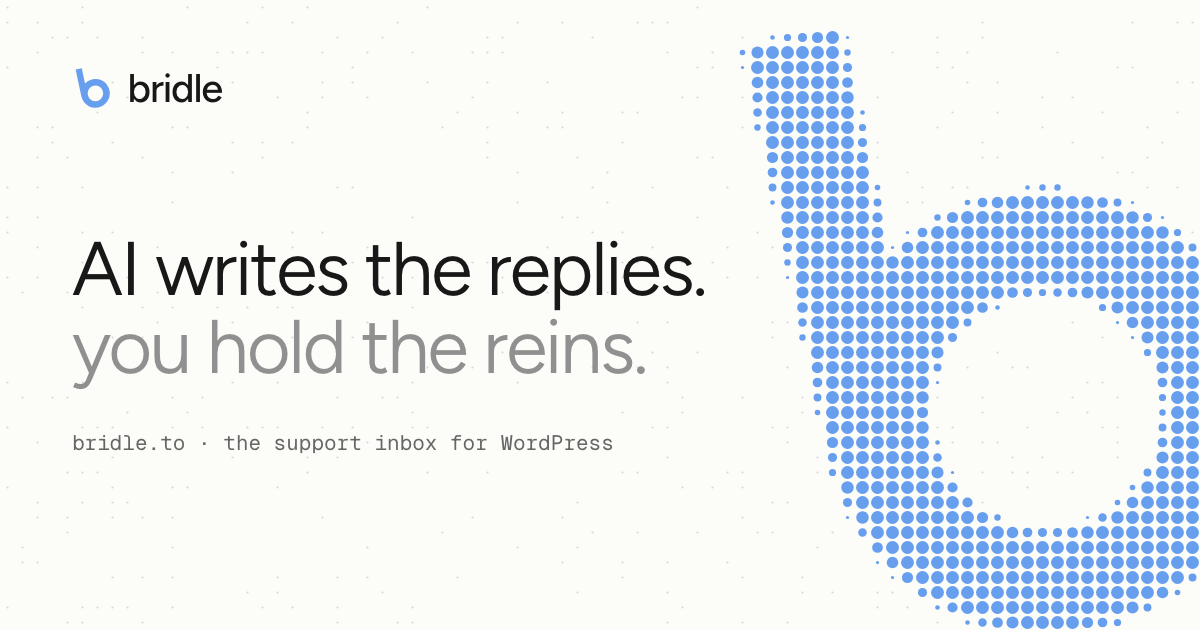
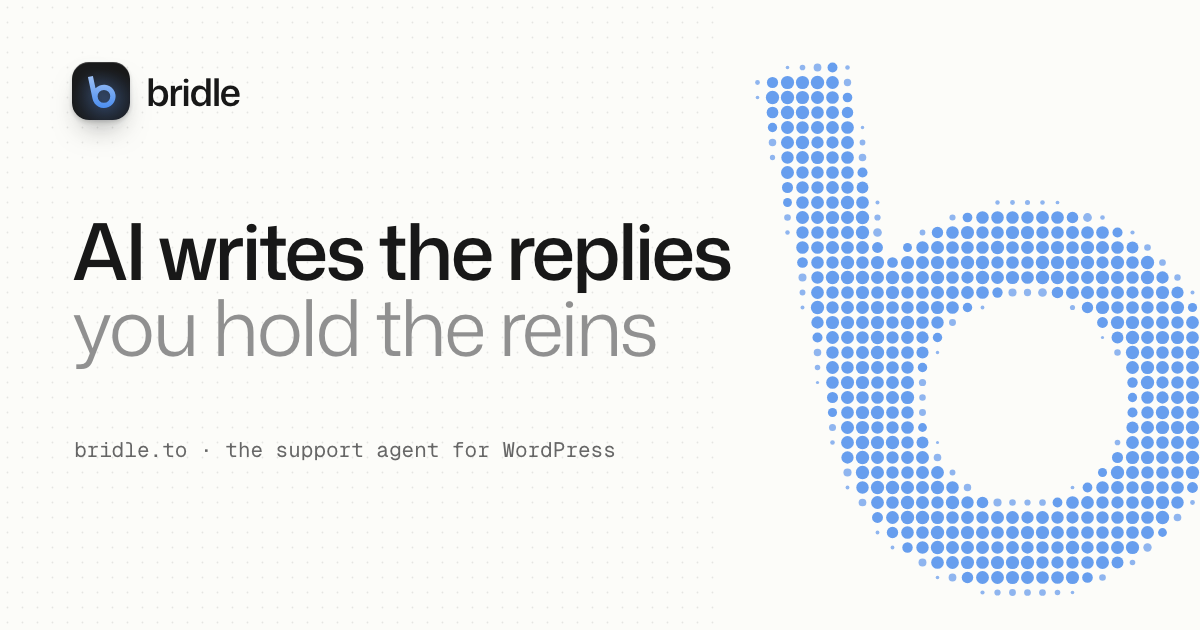
bridle.to: share image in Mona Sans, robots and sitemap, third-party notices
- og.png redrawn: Mona Sans headline without full stops, the mark on its
  ink tile, "the support agent for WordPress", and a halftone b sized so
  the whole ring reads.
- robots.txt and sitemap.xml so search engines index the page (not the
  thanks page).
- NOTICE.md and the two OFL texts, so the repo can be public: fonts are
  OFL, the agent logos MIT (LobeHub Icons), the interface icons ISC
  (Lucide); the page's own work stays all rights reserved.

diff --git a/NOTICE.md b/NOTICE.md
@@ -1,0 +1,31 @@
+# Third-party notices
+
+The page's own code, copy, mark and photo are © 2026 PlugPress, all rights reserved. These parts come from others under their own licences:
+
+| What | Where | Licence |
+|---|---|---|
+| Mona Sans, © 2022 The Mona Sans Project Authors | `fonts/mona-sans-latin.woff2` | SIL Open Font License 1.1, see `fonts/OFL-mona-sans.txt` |
+| Geist Mono, © 2024 The Geist Project Authors | `fonts/geist-mono-latin.woff2` | SIL Open Font License 1.1, see `fonts/OFL-geist-mono.txt` |
+| Agent logo paths (OpenAI, Claude, Codex, Cursor, MCP) from LobeHub Icons, © LobeHub | inline in `index.html` | MIT, below |
+| Interface icons from Lucide, © Lucide Contributors | inline in `index.html` | ISC |
+| Figtree and Gabarito (earlier commits only) | `fonts/` in git history | SIL Open Font License 1.1 |
+
+The ChatGPT, Codex, Claude, Cursor and Model Context Protocol names and logos are trademarks of their owners. They appear only to say Bridle works with them.
+
+## MIT License (LobeHub Icons)
+
+Copyright (c) LobeHub
+
+Permission is hereby granted, free of charge, to any person obtaining a copy of this software and associated documentation files (the "Software"), to deal in the Software without restriction, including without limitation the rights to use, copy, modify, merge, publish, distribute, sublicense, and/or sell copies of the Software, and to permit persons to whom the Software is furnished to do so, subject to the following conditions:
+
+The above copyright notice and this permission notice shall be included in all copies or substantial portions of the Software.
+
+THE SOFTWARE IS PROVIDED "AS IS", WITHOUT WARRANTY OF ANY KIND, EXPRESS OR IMPLIED, INCLUDING BUT NOT LIMITED TO THE WARRANTIES OF MERCHANTABILITY, FITNESS FOR A PARTICULAR PURPOSE AND NONINFRINGEMENT. IN NO EVENT SHALL THE AUTHORS OR COPYRIGHT HOLDERS BE LIABLE FOR ANY CLAIM, DAMAGES OR OTHER LIABILITY, WHETHER IN AN ACTION OF CONTRACT, TORT OR OTHERWISE, ARISING FROM, OUT OF OR IN CONNECTION WITH THE SOFTWARE OR THE USE OR OTHER DEALINGS IN THE SOFTWARE.
+
+## ISC License (Lucide)
+
+Copyright (c) for portions of Lucide are held by Cole Bemis 2013-2022 as part of Feather (MIT). All other copyright (c) for Lucide are held by Lucide Contributors 2022.
+
+Permission to use, copy, modify, and/or distribute this software for any purpose with or without fee is hereby granted, provided that the above copyright notice and this permission notice appear in all copies.
+
+THE SOFTWARE IS PROVIDED "AS IS" AND THE AUTHOR DISCLAIMS ALL WARRANTIES WITH REGARD TO THIS SOFTWARE INCLUDING ALL IMPLIED WARRANTIES OF MERCHANTABILITY AND FITNESS. IN NO EVENT SHALL THE AUTHOR BE LIABLE FOR ANY SPECIAL, DIRECT, INDIRECT, OR CONSEQUENTIAL DAMAGES OR ANY DAMAGES WHATSOEVER RESULTING FROM LOSS OF USE, DATA OR PROFITS, WHETHER IN AN ACTION OF CONTRACT, NEGLIGENCE OR OTHER TORTIOUS ACTION, ARISING OUT OF OR IN CONNECTION WITH THE USE OR PERFORMANCE OF THIS SOFTWARE.

diff --git a/README.md b/README.md
@@ -16,7 +16,9 @@ The Bridle waitlist page, hosted on Spacefast (Space `bridle`, team `fahim-team`
 | `favicon.svg` | The mark; turns lighter blue in dark mode |
 | `icon-128.png`, `icon-256.png` | The app tile (blue mark on ink), linked from the plugin's `manifest.json` |
 | `apple-touch-icon.png` | 180×180, full bleed; iOS rounds the corners |
-| `og.png` | Social preview, 1200×630 |
+| `og.png` | Social preview, 1200×630: headline in Mona Sans, mark on the ink tile, halftone b |
+| `robots.txt`, `sitemap.xml` | Lets search engines index `/` (not `/thanks.html`) |
+| `NOTICE.md` | Third-party licences: fonts (OFL), agent logos (MIT), interface icons (ISC) |
 
 ## Publish
 
